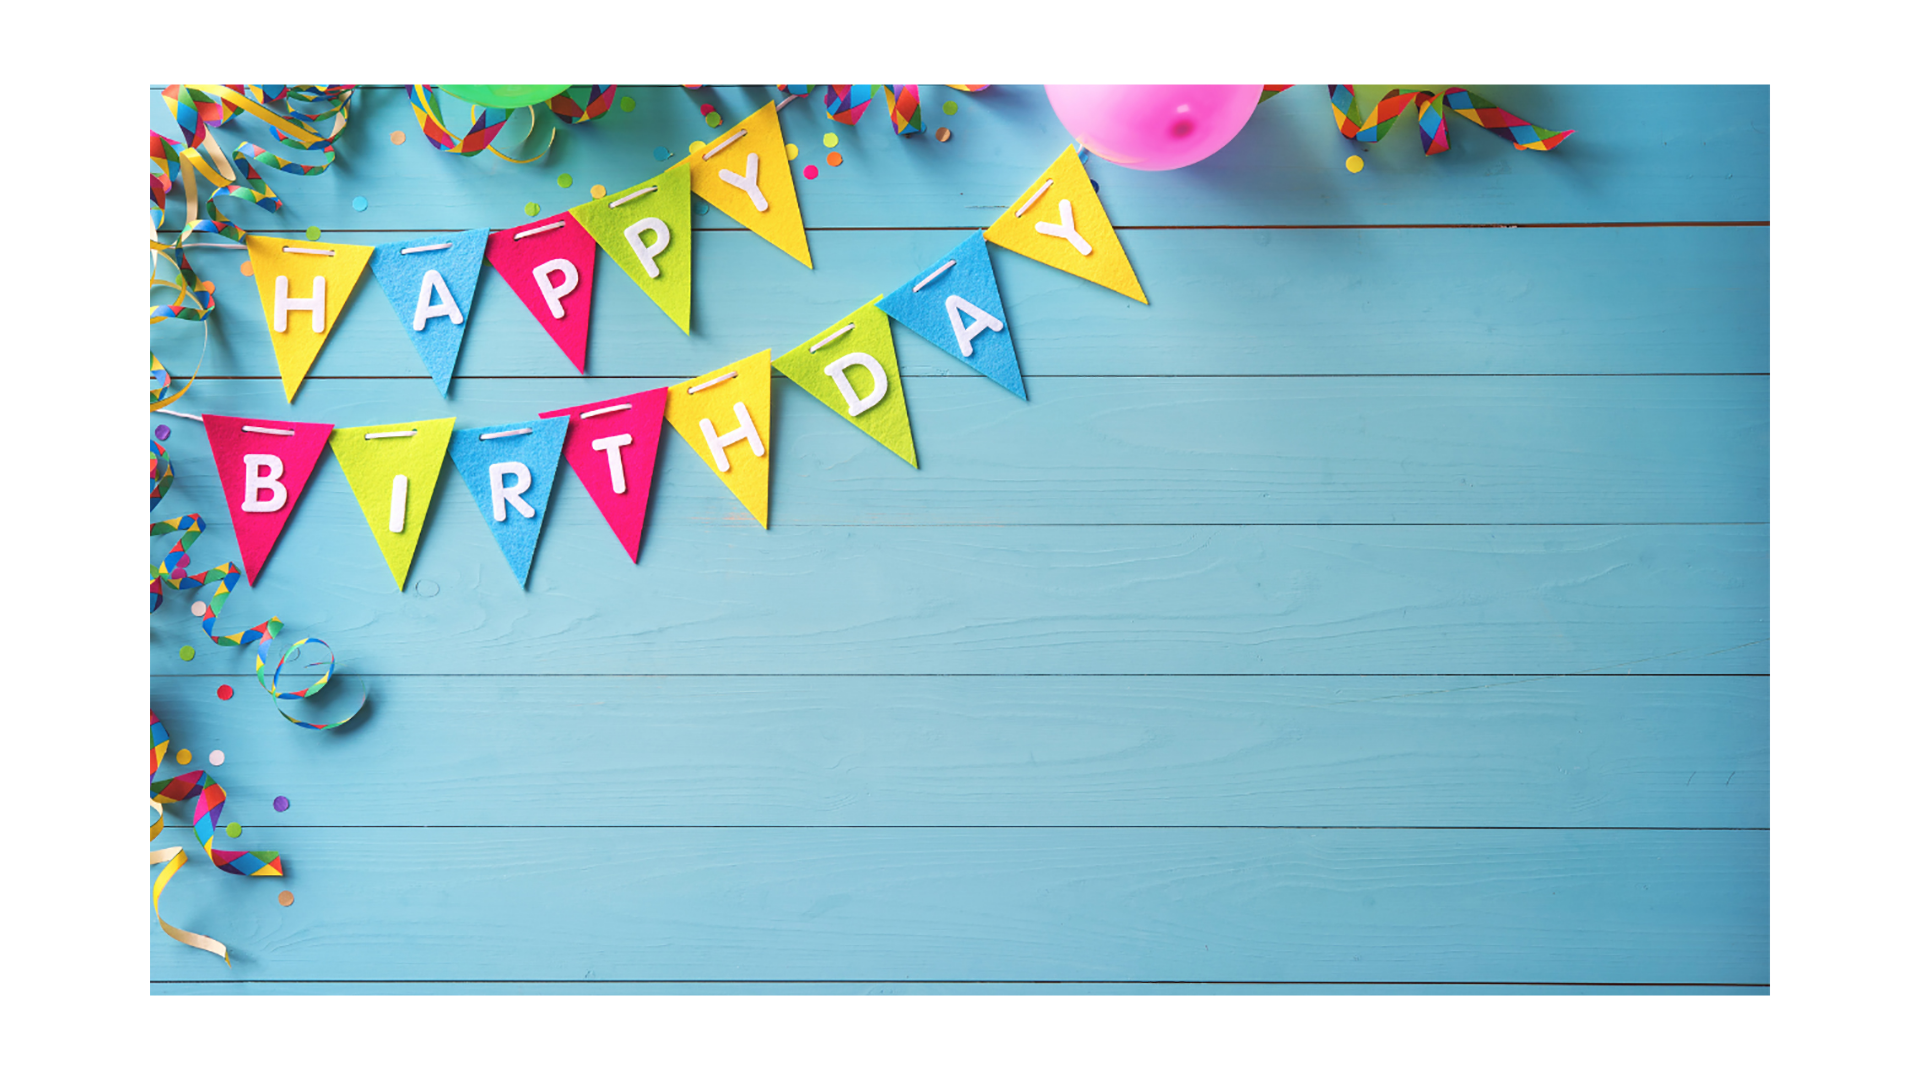
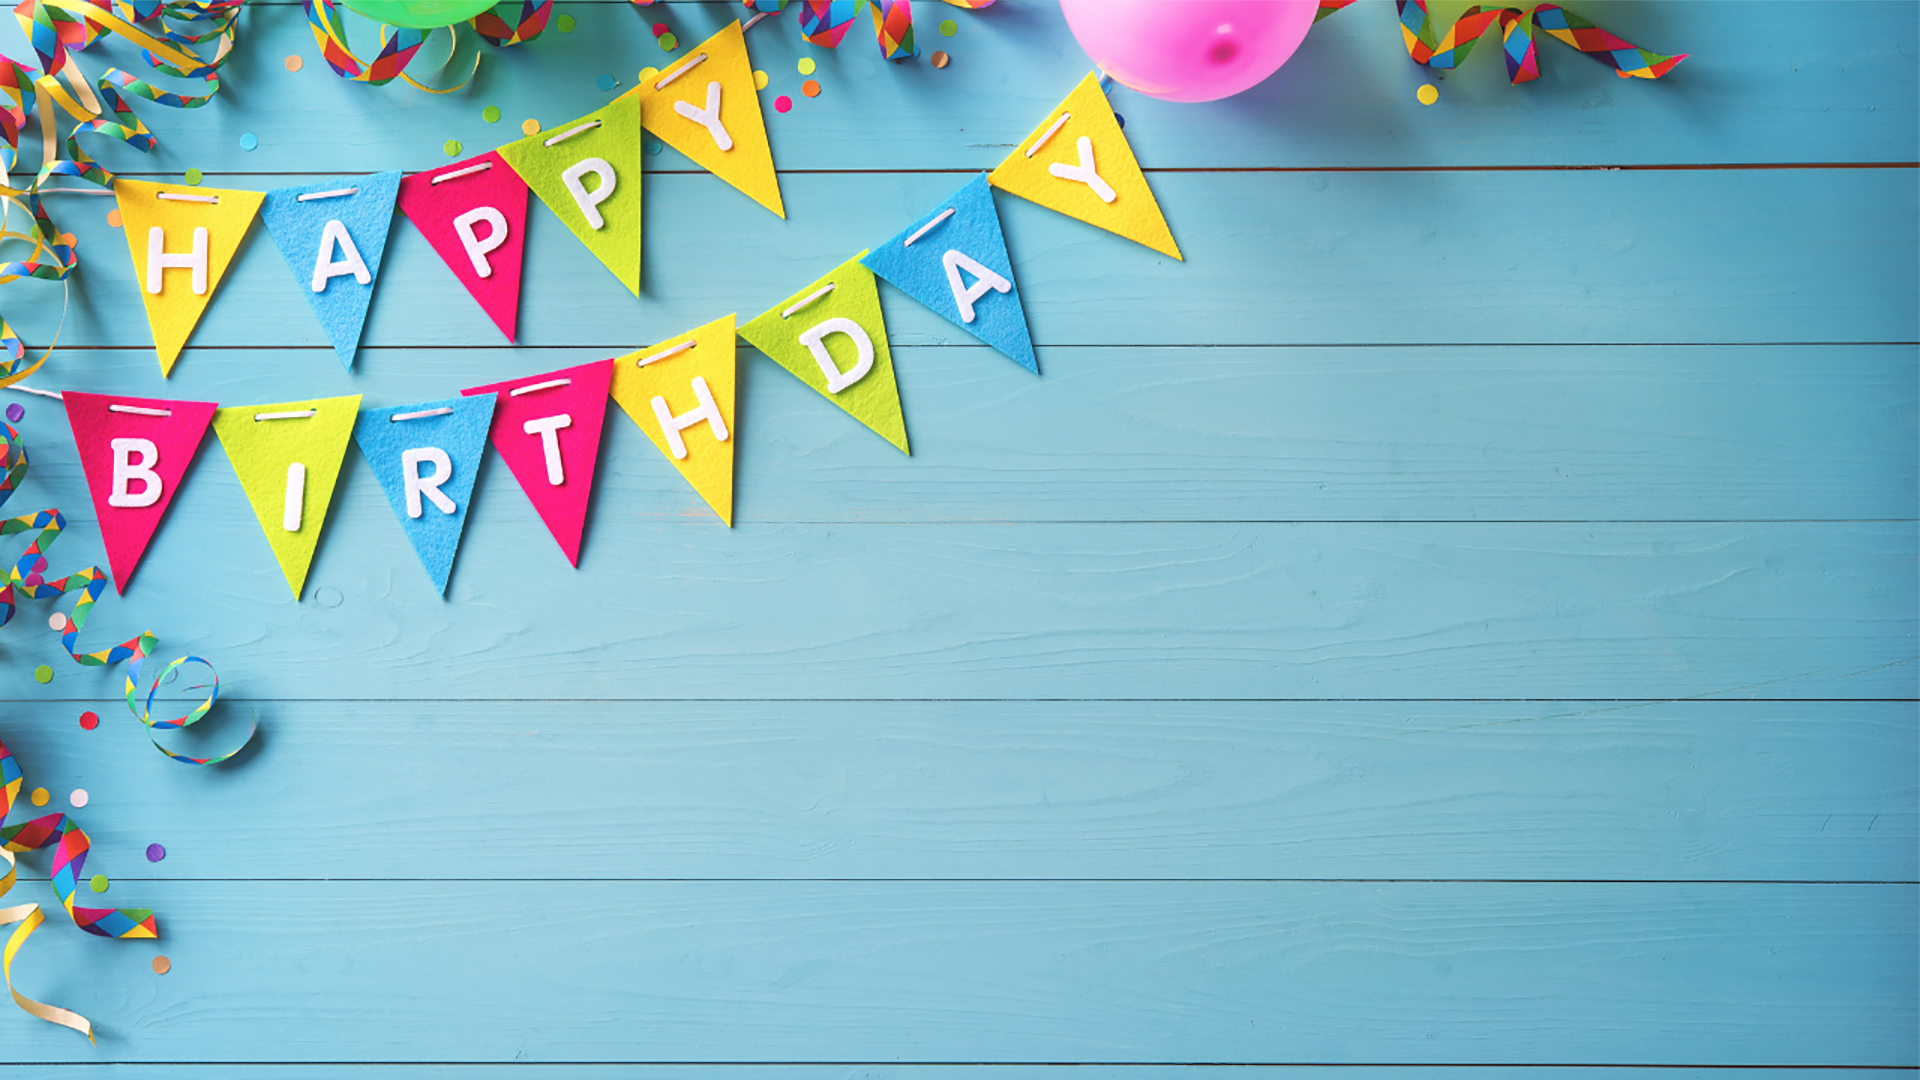
Criando a aba de interação do aniversário, colocando efeito e adicionando o temporizador

diff --git a/src/index.html b/src/index.html
@@ -5,6 +5,10 @@
     <meta name="viewport" content="width=device-width, initial-scale=1.0">
     <meta http-equiv="X-UA-Compatible" content="IE=edge">
     <title>Aniversário</title>
+    <link rel="preconnect" href="https://fonts.googleapis.com">
+    <link rel="preconnect" href="https://fonts.gstatic.com" crossorigin>
+    <link href="https://fonts.googleapis.com/css2?family=Roboto:wght@400;700;900&display=swap" rel="stylesheet">
+    <link rel="stylesheet" href="https://unpkg.com/aos@next/dist/aos.css" />
     <link rel="stylesheet" href="styles/main.scss">
 </head>
 <body>
@@ -12,7 +16,7 @@
         <div class="container">
             <img src="./images/logo.png" alt="" class="hero__logo">
             <p class="hero__text">
-                Contagem regressiva para o meu aniversário
+                Contagem regressiva para o meu aniversário <span id="contador"></span>
             </p>
 
             <div class="infos-bar">
@@ -37,6 +41,72 @@
             </div>
         </div>
     </header>
+
+    <section class="event event--image-left">
+        <div class="container" data-aos="fade-left">
+            <div class="event__details">
+                <h2 class="event__details__title">
+                    Pixzinho de aniversário
+                </h2>
+                <p class="event__details__description">
+                    Qualquer valor acima de 5 dígitos ou pode me enviar uma imagem abaixo me parabenizando (com um pixzinho também), só clicar no botão para mandar.
+                </p>
+            </div>
+            <img src="./images/parabens_3.png" alt="cade meu pix" class="event__image">
+        </div>
+    </section>
+
+    <section class="event event--image_2">
+        <div class="container" data-aos="fade-right">
+            <div class="event__details">
+                <h2 class="event__details__title">
+                    Foto do laranjo
+                </h2>
+                <p class="event__details__description">
+                    Com essa foto você expressa o tamanho da sua felicidade por sermos grandes amigos, parceiros, colegas de trabalho.
+                </p>
+                <a href="#" class="button button--primary">
+                        R$ 1.000,00
+                    </a>
+            </div>
+            <img src="./images/parabens_1.png" alt="cade meu pix" class="event__image">
+        </div>
+    </section>
+
+    <section class="event event--image_3 event--image-left">
+        <div class="container" data-aos="fade-left">
+            <div class="event__details">
+                <h2 class="event__details__title">
+                    Ven Diesel Pensador
+                </h2>
+                <p class="event__details__description">
+                    Com essa foto você expressa o tamanho da sua saudade por não estar presente no dia do meu aniversário, mas que isso não vai tirar o fato de sermos grandes amigos, parceiros, colegas de trabalho.
+                </p>
+                <a href="#" class="button button--primary">
+                        R$ 500,00
+                    </a>
+            </div>
+            <img src="./images/parabens_4.png" alt="cade meu pix" class="event__image">
+        </div>
+    </section>
+
+    <section class="event event--image_4">
+        <div class="container" data-aos="fade-right">
+            <div class="event__details">
+                <h2 class="event__details__title">
+                    Outra foto do laranjo
+                </h2>
+                <p class="event__details__description">
+                    Com essa foto você expressa somente um feliz aniversário (simples mas o importante é se expressar).
+                </p>
+                <a href="#" class="button button--primary">
+                        R$ 100,00
+                    </a>
+            </div>
+            <img src="./images/parabens_2.png" alt="cade meu pix" class="event__image">
+        </div>
+    </section>
+    <script src="https://unpkg.com/aos@next/dist/aos.js"></script>
     <script src="scripts/main.js"></script>
 </body>
 </html>

diff --git a/src/styles/_events.scss b/src/styles/_events.scss
@@ -1,0 +1,67 @@
+@use 'variables'; 
+
+.event {
+    padding: 80px 0;
+    background-image: linear-gradient(#1B6CA7, #442BDB);
+
+    &--image_1 {
+        background-image: linear-gradient(variables.$blue1, variables.$blue2);
+    }
+
+    &--image_2 {
+        background-image: linear-gradient(variables.$blue2, variables.$pink);
+    }
+    
+    &--image_3 {
+        background-image: linear-gradient(variables.$pink, variables.$yellow);
+    }
+    
+    &--image_4 {
+        background-image: linear-gradient(variables.$yellow, variables.$pink);
+    }
+
+    &--image-left {
+        .container {
+            flex-direction: row-reverse;
+        }
+    }
+
+    .container {
+        display: flex;
+        gap: 40px;
+    }
+
+    &__image {
+        max-width: 360px;
+        border-radius: 10%;
+    }
+
+    &__details {
+        &__title {
+            font-size: 18px;
+            font-weight: bold;
+            margin-bottom: 16px;
+        }
+        &__description {
+            line-height: 22px;
+            margin-bottom: 24px;
+        }
+    }
+
+    @media (max-width: 640px) {
+        .container {
+            display: block;
+        }
+
+        &__image {
+            width: 100%;
+            margin-top: 14px;
+        }
+
+        &__details {
+            margin-right: 0;
+            margin-bottom: 16px;
+            text-align: center;
+        }
+    }
+}

diff --git a/src/scripts/main.js b/src/scripts/main.js
@@ -1,0 +1,35 @@
+AOS.init();
+
+const dataDoEvento = new Date("Dec 16, 2024 19:00:00");
+const timeStampDoEvento = dataDoEvento.getTime();
+
+
+const contaAsHoras = setInterval(function() {
+    const agora = new Date();
+    const timeStampAtual = agora.getTime();
+
+    const distanciaDoEvento = timeStampDoEvento - timeStampAtual;
+
+    const diaEmMs = 1000 * 60 * 60 * 24;
+    const horaEmMs = 1000 * 60 * 60;
+    const minutoEmMs = 1000 * 60;
+
+    const diasAteOEvento = Math.floor(distanciaDoEvento / diaEmMs);
+    const horasAteOEvento = Math.floor((diasAteOEvento % diaEmMs) /horaEmMs);
+    const minutosAteOEvento = Math.floor((distanciaDoEvento % horaEmMs) / minutoEmMs);
+    const segundosAteOEvento = Math.floor((distanciaDoEvento % minutoEmMs) / 1000);
+
+
+    console.log(diasAteOEvento);
+    console.log(horasAteOEvento);
+    console.log(minutosAteOEvento);
+    console.log(segundosAteOEvento);
+
+    document.getElementById('contador').innerHTML = `começa em ${diasAteOEvento}d ${horasAteOEvento}h ${minutosAteOEvento}m ${segundosAteOEvento}s`;
+
+    if (distanciaDoEvento < 0) {
+        clearInterval(contaAsHoras);
+        document.getElementById('contador').innerHTML = 'ja expirou';
+    }
+
+}, 1000);

diff --git a/src/styles/_hero.scss b/src/styles/_hero.scss
@@ -1,5 +1,5 @@
 .hero {
-    background-image: url(../images/fundo_2.png);
+    background-image: url(../images/fundo.png);
     background-repeat: no-repeat;
     background-size: cover;
     position: relative;
@@ -33,6 +33,7 @@
         margin-top: 64px;
         margin-bottom: 64px;
         font-size: 40px;
+        font-weight: 800;
         line-height: 56px;
         text-align: center;
     }
@@ -49,10 +50,14 @@
             font-size: 32px;
             line-height: 24px;
             margin: 18px 0;
+            padding-bottom: 24px;
         }
     }
     @media (max-width: 640px) {
         padding: 40px 0;
+        align-items: center;
+        background-image: url(../images/fundo_mobile.png);
+        
 
 
         &__logo {

diff --git a/src/styles/main.scss b/src/styles/main.scss
@@ -2,10 +2,12 @@
 @use 'variables';
 @use 'componentes/infosbar';
 @use 'componentes/buttons';
+@use 'events';
 
 * {
     padding: 0;
     margin: 0;
+    font-family: Roboto, sans-serif;
     box-sizing: border-box;
     list-style: none;
     color: variables.$textColor;

diff --git a/src/styles/componentes/_infosbar.scss b/src/styles/componentes/_infosbar.scss
@@ -20,4 +20,14 @@
             }
         }
     }
+
+    @media (max-width: 640px) {
+        display: block;
+
+        &__infos {
+            flex-direction: column;
+            align-items: center;
+            text-align: center;
+        }
+    }
 }
